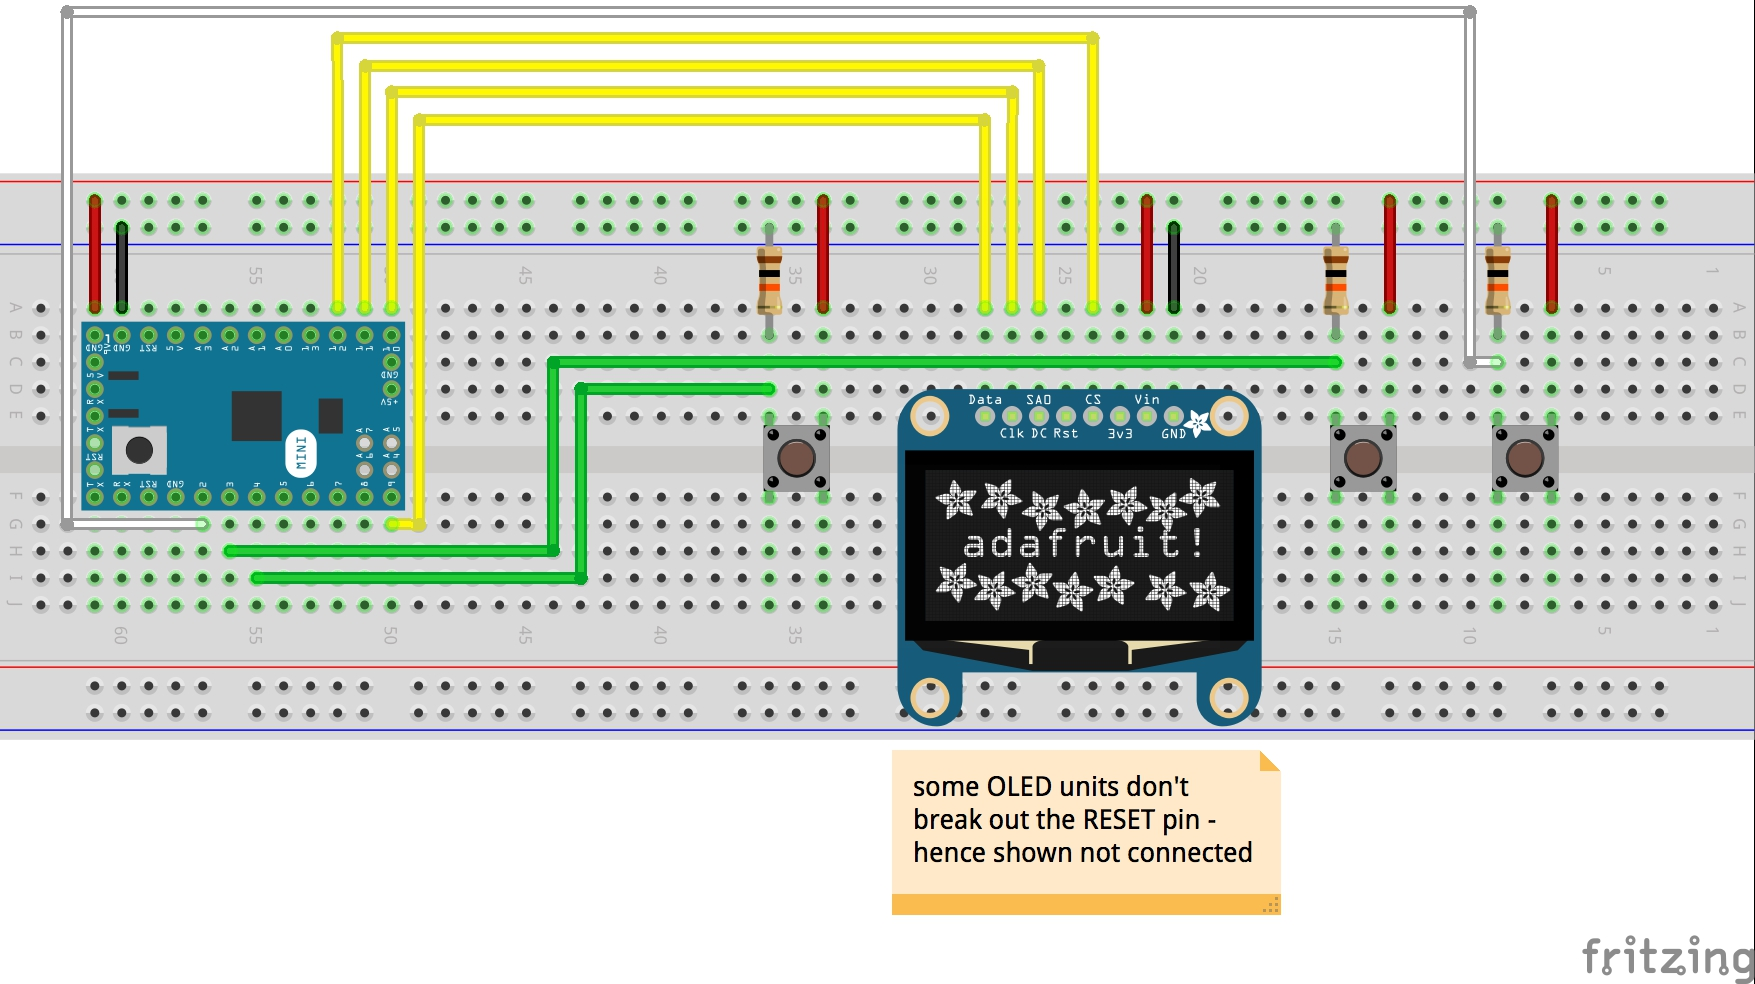
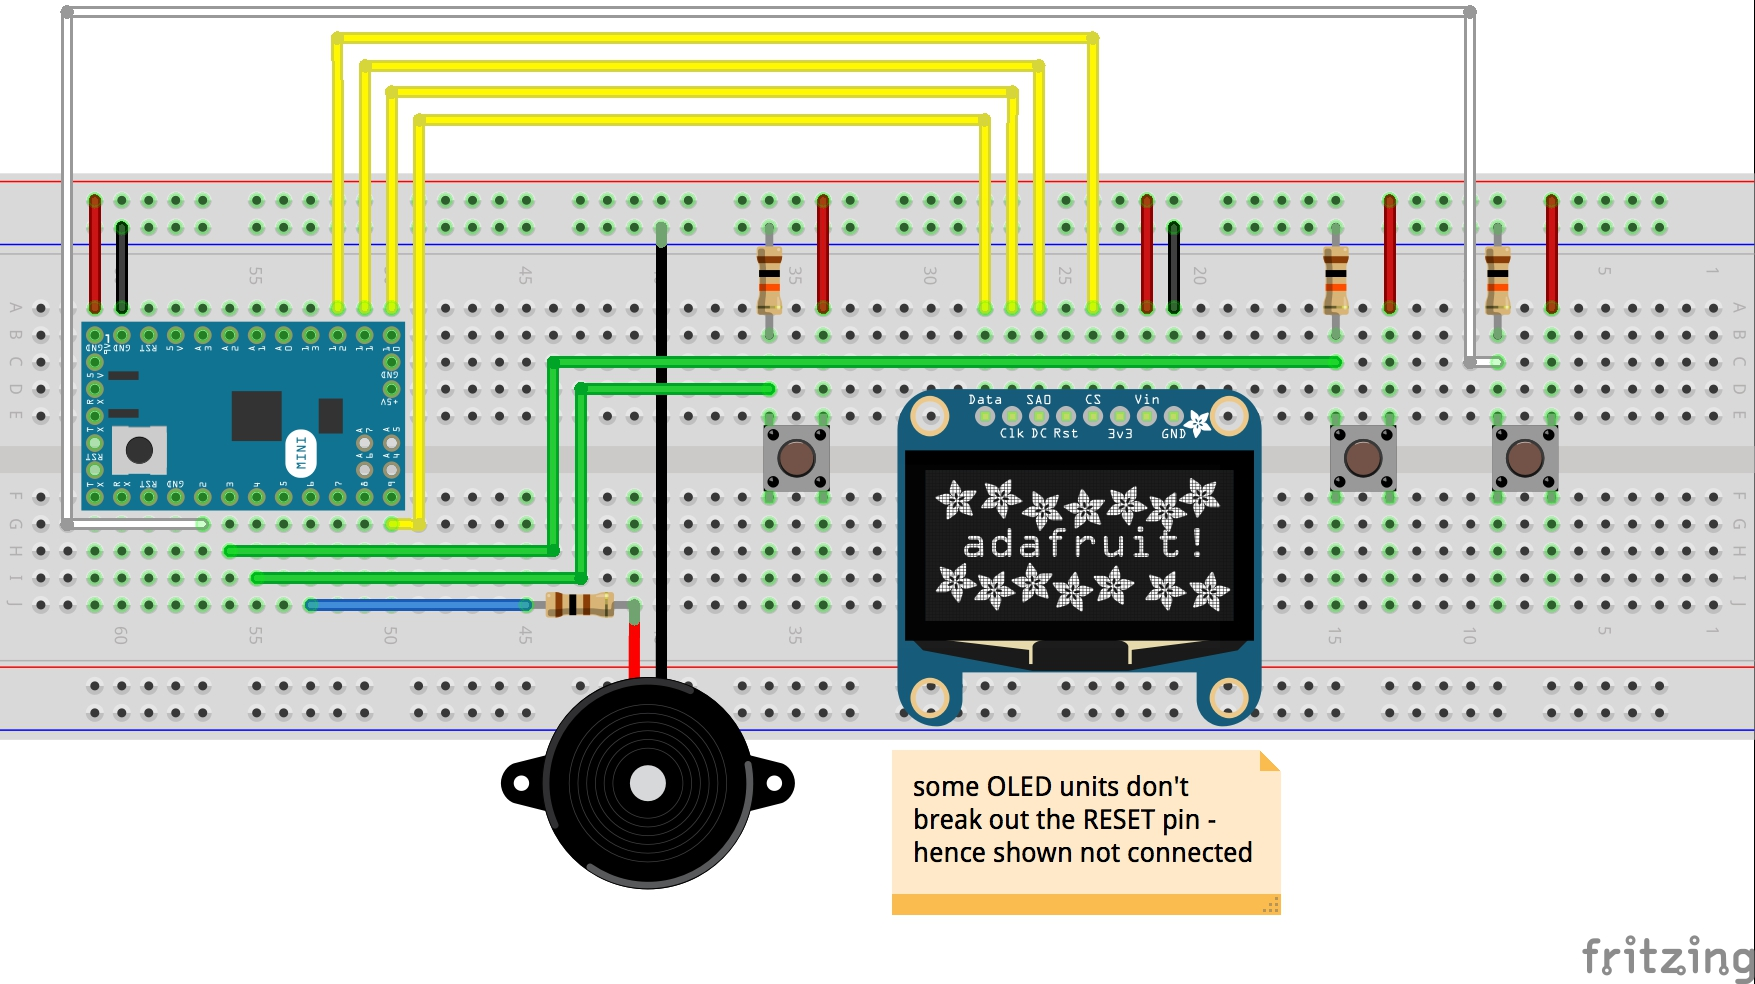
[ArdWinVaders] add sound basics

Changed region(s): [[0.1538, 0.2134, 0.4615, 0.9146], [0.2769, 0.4878, 0.3077, 0.5488]]

diff --git a/playground/OLED/ArdWinVaders/sound.h b/playground/OLED/ArdWinVaders/sound.h
@@ -1,0 +1,117 @@
+#ifndef Sound_h
+#define Sound_h
+
+#include <Arduino.h>
+
+/*************************************************
+ * Note Constants
+ *************************************************/
+
+#define NOTE_REST 0
+
+#define NOTE_B0  31
+#define NOTE_C1  33
+#define NOTE_CS1 35
+#define NOTE_D1  37
+#define NOTE_DS1 39
+#define NOTE_E1  41
+#define NOTE_F1  44
+#define NOTE_FS1 46
+#define NOTE_G1  49
+#define NOTE_GS1 52
+#define NOTE_A1  55
+#define NOTE_AS1 58
+#define NOTE_B1  62
+#define NOTE_C2  65
+#define NOTE_CS2 69
+#define NOTE_D2  73
+#define NOTE_DS2 78
+#define NOTE_E2  82
+#define NOTE_F2  87
+#define NOTE_FS2 93
+#define NOTE_G2  98
+#define NOTE_GS2 104
+#define NOTE_A2  110
+#define NOTE_AS2 117
+#define NOTE_B2  123
+#define NOTE_C3  131
+#define NOTE_CS3 139
+#define NOTE_D3  147
+#define NOTE_DS3 156
+#define NOTE_E3  165
+#define NOTE_F3  175
+#define NOTE_FS3 185
+#define NOTE_G3  196
+#define NOTE_GS3 208
+#define NOTE_A3  220
+#define NOTE_AS3 233
+#define NOTE_B3  247
+#define NOTE_C4  262
+#define NOTE_CS4 277
+#define NOTE_D4  294
+#define NOTE_DS4 311
+#define NOTE_E4  330
+#define NOTE_F4  349
+#define NOTE_FS4 370
+#define NOTE_G4  392
+#define NOTE_GS4 415
+#define NOTE_A4  440
+#define NOTE_AS4 466
+#define NOTE_B4  494
+#define NOTE_C5  523
+#define NOTE_CS5 554
+#define NOTE_D5  587
+#define NOTE_DS5 622
+#define NOTE_E5  659
+#define NOTE_F5  698
+#define NOTE_FS5 740
+#define NOTE_G5  784
+#define NOTE_GS5 831
+#define NOTE_A5  880
+#define NOTE_AS5 932
+#define NOTE_B5  988
+#define NOTE_C6  1047
+#define NOTE_CS6 1109
+#define NOTE_D6  1175
+#define NOTE_DS6 1245
+#define NOTE_E6  1319
+#define NOTE_F6  1397
+#define NOTE_FS6 1480
+#define NOTE_G6  1568
+#define NOTE_GS6 1661
+#define NOTE_A6  1760
+#define NOTE_AS6 1865
+#define NOTE_B6  1976
+#define NOTE_C7  2093
+#define NOTE_CS7 2217
+#define NOTE_D7  2349
+#define NOTE_DS7 2489
+#define NOTE_E7  2637
+#define NOTE_F7  2794
+#define NOTE_FS7 2960
+#define NOTE_G7  3136
+#define NOTE_GS7 3322
+#define NOTE_A7  3520
+#define NOTE_AS7 3729
+#define NOTE_B7  3951
+#define NOTE_C8  4186
+#define NOTE_CS8 4435
+#define NOTE_D8  4699
+#define NOTE_DS8 4978
+
+
+class Sound {
+  public:
+    Sound(uint8_t speaker_pin);
+
+    void init();
+    void fire();
+    void play(unsigned int note, unsigned long duration);
+
+  private:
+    uint8_t speaker_pin;
+
+
+};
+
+#endif

diff --git a/playground/OLED/ArdWinVaders/sound.cpp b/playground/OLED/ArdWinVaders/sound.cpp
@@ -1,0 +1,21 @@
+#include "sound.h"
+
+/*
+ *   constructor
+ */
+Sound::Sound(uint8_t speaker_pin) {
+  this->speaker_pin = speaker_pin;
+}
+
+void Sound::init() {
+  noTone(speaker_pin);
+}
+
+void Sound::fire() {
+  noTone(speaker_pin);
+  play(NOTE_C3, 300);
+}
+
+void Sound::play(unsigned int note, unsigned long duration) {
+  tone(speaker_pin, note, duration);
+}
